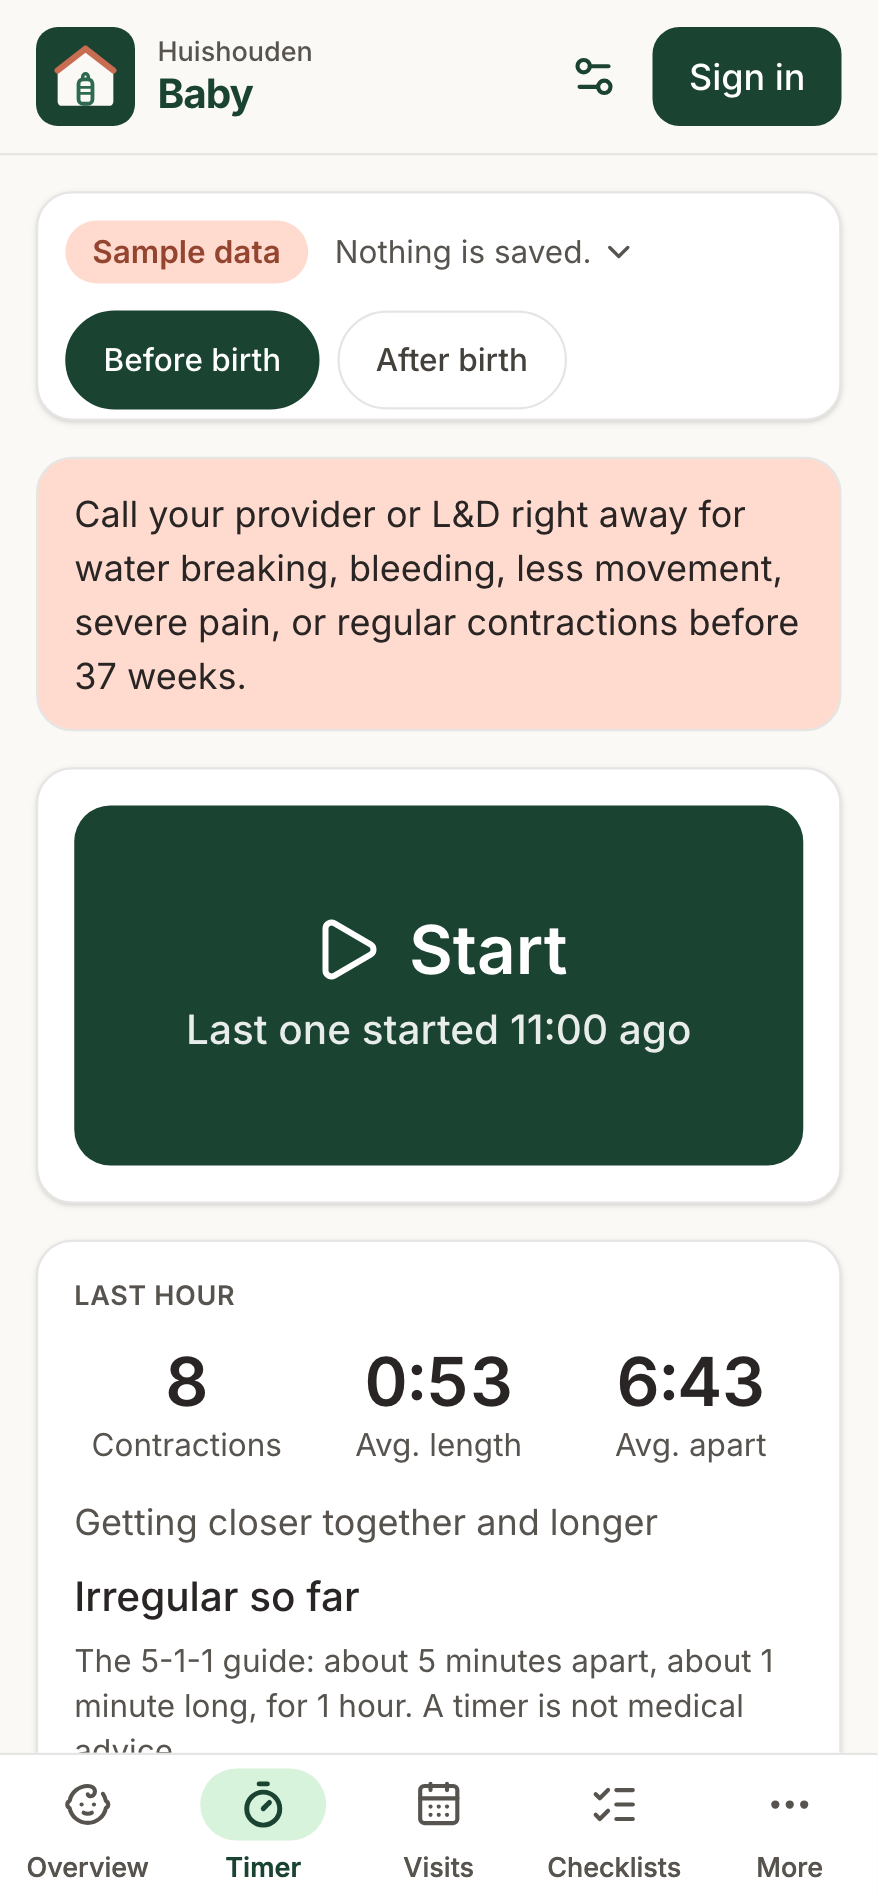
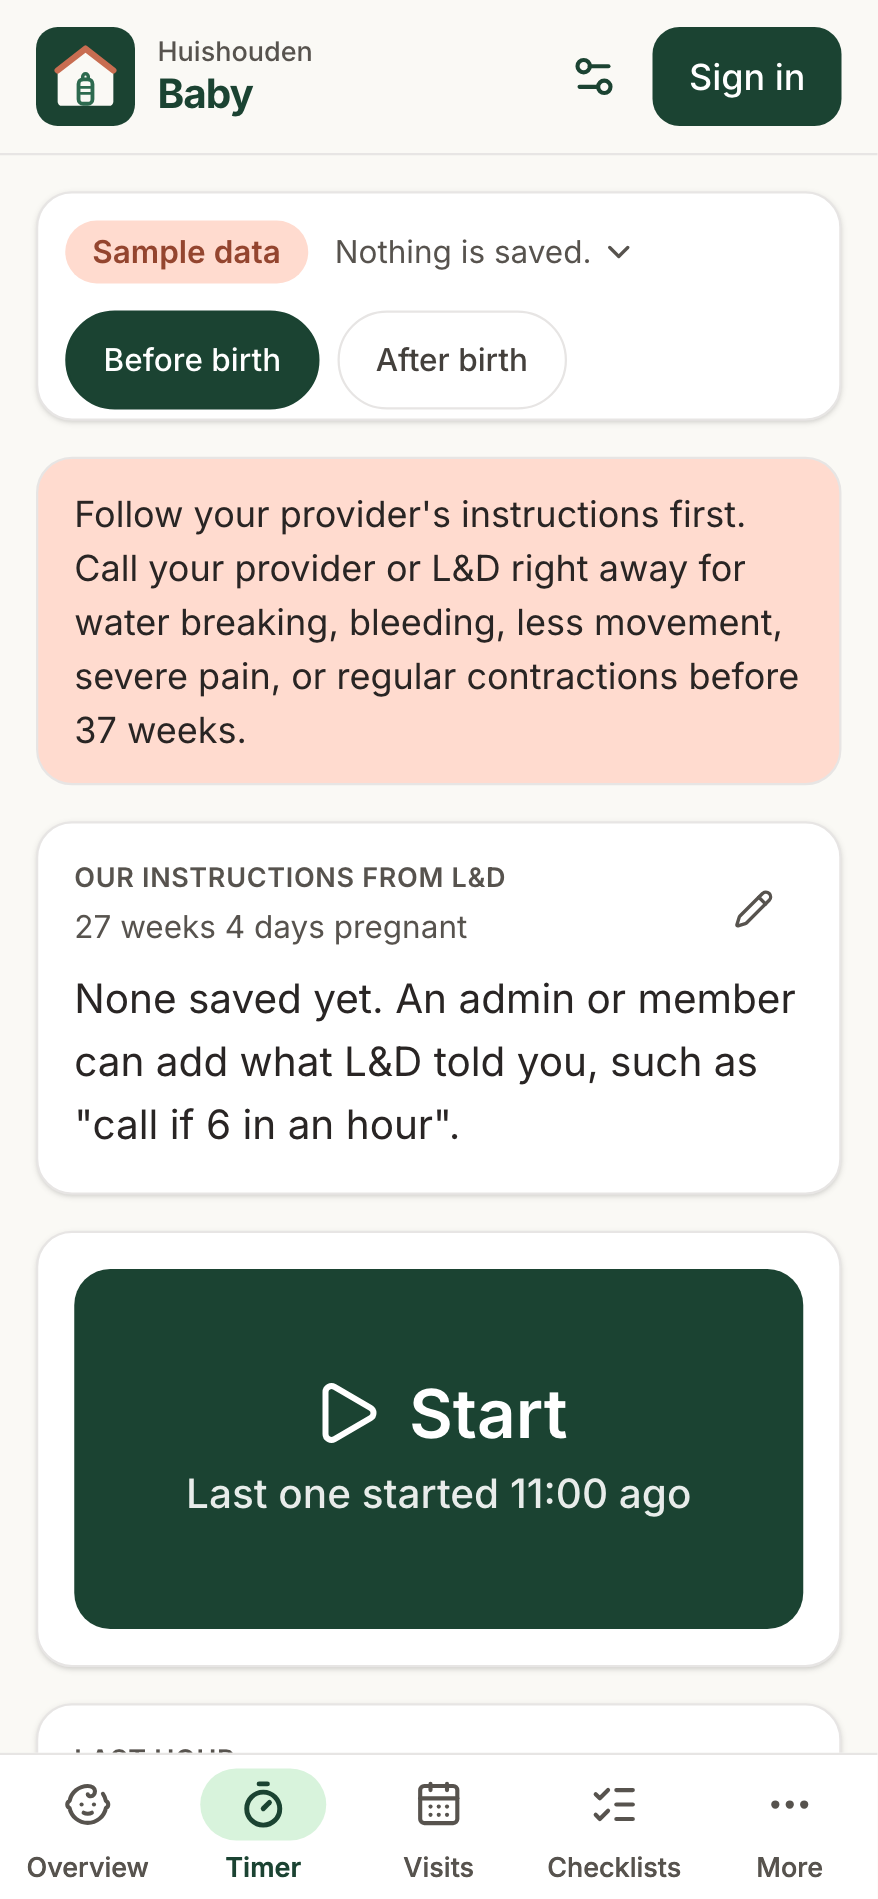
feat(baby): gestational-age aware contraction status, L&D instructions note, L&D call button
Claude-Session: https://claude.ai/code/session_01GcajtSBFvfzGz5t2hDFcRZ

diff --git a/src/screens/Contractions.tsx b/src/screens/Contractions.tsx
@@ -1,15 +1,17 @@
 import { useEffect, useState } from 'react';
-import { Phone, Play, Square, Trash2 } from 'lucide-react';
+import { Pencil, Phone, Play, Square, Trash2 } from 'lucide-react';
 import { telHref } from '@huishouden/pwa-kit/places';
 import { formatDayLong, formatTime } from '@huishouden/pwa-kit/time';
 import { useClock } from '@huishouden/pwa-kit/react/clock';
-import { cardClass, iconButton, overline, secondaryButton } from '@huishouden/pwa-kit/react/ui';
+import { cardClass, iconButton, inputClass, overline, primaryButton, secondaryButton } from '@huishouden/pwa-kit/react/ui';
 import type { BabyStore } from '../data/types';
-import { clock, durationOf, intervalBefore, providerContact, running, sessions, summarize, type Status, type Trend } from '../lib/contractions';
+import { clock, durationOf, gestation, intervalBefore, parseNote, providerContact, running, sessions, summarize, type Status, type Trend } from '../lib/contractions';
 import type { Contraction } from '../lib/model';
 import { can } from '@huishouden/pwa-kit/roles';
 import { RoleNote } from '@huishouden/pwa-kit/react/roles';
 import { mayChange } from '../lib/roles';
+import { countdown } from '../lib/time';
+import { LIMITS } from '../lib/model';
 import { useT } from '../i18n';
 
 const STATUS_KEYS = {
@@ -17,6 +19,9 @@ const STATUS_KEYS = {
   few: 'contractions.status.few',
   irregular: 'contractions.status.irregular',
   building: 'contractions.status.building',
+  call: 'contractions.status.call',
+  preCall: 'contractions.status.preCall',
+  preKeep: 'contractions.status.preKeep',
   match: 'contractions.status.match',
 } as const satisfies Record<Status, string>;
 
@@ -52,7 +57,16 @@ export function Contractions({ store, notify }: Props) {
   }, [currentId, read]);
   const now = Math.max(slow, tick ?? 0);
 
-  const summary = summarize(contractions, now);
+  const { profile } = store.data;
+  const due = profile?.dueDate ? countdown(profile.dueDate, now) : null;
+  const weeks = due ? gestation(due.days) : null;
+  const preterm = weeks != null && weeks.weeks < 37;
+  const note = profile?.contractionNote;
+  const summary = summarize(contractions, now, { preterm, ...parseNote(note) });
+  const callNow = summary.status === 'call' || summary.status === 'preCall' || summary.status === 'match';
+  const [editing, setEditing] = useState(false);
+  const [draft, setDraft] = useState('');
+  const canEditNote = can(store.role, 'change-settings');
   const provider = providerContact(contacts);
   const history = sessions(contractions);
   const last = [...contractions].sort((a, b) => b.start - a.start).find((c) => c.id !== currentId);
@@ -74,11 +88,43 @@ export function Contractions({ store, notify }: Props) {
         {t('contractions.callNote')}
       </p>
 
+      <section className={`${cardClass} p-4`} aria-label={t('contractions.instructions')}>
+        <div className="flex items-start justify-between gap-3">
+          <div className="min-w-0">
+            <p className={overline}>{t('contractions.instructions')}</p>
+            {weeks && <p className="mt-1 text-sm text-muted">{t('contractions.weeks', { weeks: weeks.weeks, days: weeks.days })}</p>}
+          </div>
+          {canEditNote && !editing && (
+            <button type="button" className={iconButton} aria-label={t('contractions.editInstructions')} onClick={() => { setDraft(note ?? ''); setEditing(true); }}>
+              <Pencil size={18} aria-hidden="true" />
+            </button>
+          )}
+        </div>
+        {editing ? (
+          <form
+            className="mt-2 space-y-2"
+            onSubmit={(e) => {
+              e.preventDefault();
+              store.actions.saveContractionNote(draft);
+              setEditing(false);
+            }}
+          >
+            <input className={inputClass} value={draft} maxLength={LIMITS.contractionNote} placeholder={t('contractions.instructionsPlaceholder')} aria-label={t('contractions.instructions')} onChange={(e) => setDraft(e.target.value)} />
+            <div className="flex gap-2">
+              <button type="submit" className={primaryButton}>{t('common.save')}</button>
+              <button type="button" className={secondaryButton} onClick={() => setEditing(false)}>{t('common.cancel')}</button>
+            </div>
+          </form>
+        ) : (
+          <p className="mt-1 text-lg text-ink [overflow-wrap:anywhere]" data-testid="instructions">{note || t('contractions.noInstructions')}</p>
+        )}
+      </section>
+
       <section className={`${cardClass} p-4 sm:p-6`} aria-label={t('contractions.title')}>
         <button
           type="button"
           onClick={toggle}
-          className={`flex min-h-40 w-full flex-col items-center justify-center gap-1 rounded-2xl px-4 py-6 text-3xl font-semibold transition-colors duration-150 ${current ? 'border-2 border-attention-fill bg-attention-tint text-attention' : 'bg-primary text-on-primary hover:bg-primary-hover'}`}
+          className={`flex min-h-40 w-full flex-col items-center justify-center gap-1 rounded-2xl px-4 py-6 text-3xl font-semibold transition-colors duration-150 ${current ? 'border-2 border-attention-fill bg-attention-tint text-ink' : 'bg-primary text-on-primary hover:bg-primary-hover'}`}
         >
           <span className="flex items-center gap-3">
             {current ? <Square size={32} aria-hidden="true" /> : <Play size={32} aria-hidden="true" />}
@@ -107,13 +153,17 @@ export function Contractions({ store, notify }: Props) {
           <Stat label={t('contractions.avgApart')} value={summary.avgInterval == null ? '–' : clock(summary.avgInterval)} />
         </dl>
         <p className="mt-3 text-base text-muted">{t(TREND_KEYS[summary.trend])}</p>
-        <p className="mt-2 text-lg font-medium text-ink" data-testid="status" data-status={summary.status}>
+        <p className={`mt-2 text-lg font-medium text-ink ${callNow ? 'rounded-xl border-2 border-attention-fill bg-attention-tint px-3 py-2' : ''}`} data-testid="status" data-status={summary.status}>
           {t(STATUS_KEYS[summary.status])}
         </p>
-        <p className="mt-1 text-sm text-muted">{t('contractions.guide')}</p>
+        {!preterm && <p className="mt-1 text-sm text-muted">{t('contractions.guide')}</p>}
         {provider?.phone && (
           <a className="mt-3 inline-flex min-h-12 w-full items-center justify-center gap-2 rounded-xl border border-line bg-surface px-4 text-lg font-semibold text-link" href={telHref(provider.phone)}>
-            <Phone size={20} aria-hidden="true" /> {t('contractions.call', { name: provider.name })}
+            <Phone size={20} aria-hidden="true" />
+            <span className="min-w-0 text-left">
+              <span className="block [overflow-wrap:anywhere]">{t('contractions.call', { name: provider.name })}</span>
+              <span className="block text-base font-medium tabular-nums">{provider.phone}</span>
+            </span>
           </a>
         )}
       </section>

diff --git a/src/lib/contractions.ts b/src/lib/contractions.ts
@@ -61,7 +61,43 @@ export type Status =
   | 'irregular'
   /** Close and long, but not yet held for the hour. */
   | 'building'
-  | 'match';
+  | 'match'
+  /** The household's own instructions from L&D are met (the note). */
+  | 'call'
+  /** Before 37 weeks: four or more in the hour. */
+  | 'preCall'
+  /** Before 37 weeks, fewer than that. */
+  | 'preKeep';
+
+/** What changes the status: how far along the pregnancy is, and the household's own threshold. */
+export interface Rules {
+  /** Before 37 completed weeks (needs the due date). 5-1-1 is for term; earlier, any regular pattern means call. */
+  preterm?: boolean;
+  /** From the note: call at this many contractions in an hour. */
+  noteCount?: number;
+  /** From the note: call when they are this many minutes apart or closer. */
+  noteMinutes?: number;
+}
+
+/** Before 37 weeks this many contractions in the hour reads as regular. */
+export const PRETERM_COUNT = 4;
+
+/** Reads "call if 6 in an hour" and "call when 5 minutes apart" out of the household's note. */
+export function parseNote(note: string | undefined): Pick<Rules, 'noteCount' | 'noteMinutes'> {
+  if (!note) return {};
+  const out: Pick<Rules, 'noteCount' | 'noteMinutes'> = {};
+  const count = /(\d{1,2})\s*(?:contractions?\s*|weeën\s*|contracciones\s*)?(?:in|per|\/|en|binnen|por)\s*(?:an?\s*|1\s*|one\s*|een\s*|una\s*|1\s*)?(?:hour|hr|h|uur|hora)\b/i.exec(note);
+  if (count) out.noteCount = Number(count[1]);
+  const apart = /(\d{1,2})\s*(?:min(?:utes?|uten)?|m)\s*(?:apart|or less apart|auseinander|uit elkaar|de separación)|every\s*(\d{1,2})\s*min/i.exec(note);
+  if (apart) out.noteMinutes = Number(apart[1] ?? apart[2]);
+  return out;
+}
+
+/** Completed weeks and days of pregnancy from the due date's remaining days (40 weeks = 280 days). */
+export function gestation(daysToDue: number): { weeks: number; days: number } | null {
+  const d = 280 - daysToDue;
+  return d >= 0 && d <= 300 ? { weeks: Math.floor(d / 7), days: d % 7 } : null;
+}
 
 export interface Summary {
   count: number;
@@ -78,7 +114,7 @@ const mean = (xs: number[]): number | null => (xs.length ? xs.reduce((a, b) => a
 const CHANGE = 0.15;
 
 /** The last hour: count, averages, trend and the 5-1-1 status. */
-export function summarize(list: Contraction[], now: number): Summary {
+export function summarize(list: Contraction[], now: number, rules: Rules = {}): Summary {
   const w = list.filter((c) => c.start >= now - WINDOW && c.start <= now).sort(byStart);
   const durations = w.filter((c) => !isRunning(c)).map((c) => durationOf(c, now));
   const intervals = w.slice(1).map((c, i) => c.start - w[i].start);
@@ -87,6 +123,10 @@ export function summarize(list: Contraction[], now: number): Summary {
   const base = { count: w.length, avgDuration, avgInterval };
   if (w.length === 0) return { ...base, trend: 'unknown', status: 'none' };
   const trend = trendOf(durations, intervals);
+  // The household's own instructions from L&D come before any general guide.
+  const noteMet = (rules.noteCount != null && w.length >= rules.noteCount) || (rules.noteMinutes != null && w.length >= 3 && avgInterval != null && avgInterval <= rules.noteMinutes * MIN);
+  if (noteMet) return { ...base, trend, status: 'call' };
+  if (rules.preterm) return { ...base, trend, status: w.length >= PRETERM_COUNT ? 'preCall' : 'preKeep' };
   if (w.length < 3 || avgInterval == null || avgDuration == null) return { ...base, trend, status: 'few' };
   const closeAndLong = avgInterval <= MAX_INTERVAL && avgDuration >= MIN_DURATION;
   if (!closeAndLong) return { ...base, trend, status: 'irregular' };
@@ -120,9 +160,13 @@ export function clock(ms: number): string {
   return `${Math.floor(s / 60)}:${String(s % 60).padStart(2, '0')}`;
 }
 
-/** The household contact to call first: an OB or midwife, else a hospital, that has a phone number. */
+const LABOR = /\b(labou?r\s*(&|and)\s*delivery|l\s*&\s*d|l&d|ob\s*triage|triage|kraamafdeling|bevalling|sala de partos|parto)\b/iu;
+
+/** The household contact to call first: labor and delivery or OB triage, else an OB or midwife, else a hospital, that has a phone number. */
 export function providerContact(contacts: Contact[]): Contact | undefined {
   const withPhone = contacts.filter((c) => c.phone?.trim());
+  const labor = withPhone.find((c) => LABOR.test(`${c.role ?? ''} ${c.name}`));
+  if (labor) return labor;
   for (const role of ['midwife', 'hospital'] as const) {
     const hit = withPhone.find((c) => knownRole(c.role) === role);
     if (hit) return hit;

diff --git a/src/lib/contractions.test.ts b/src/lib/contractions.test.ts
@@ -1,6 +1,6 @@
 import { describe, expect, test } from 'bun:test';
 import type { Contraction } from './model';
-import { clock, providerContact, running, sessions, summarize } from './contractions';
+import { clock, gestation, parseNote, providerContact, running, sessions, summarize } from './contractions';
 
 const MIN = 60_000;
 const NOW = 1_900_000_000_000;
@@ -98,4 +98,44 @@ describe('providerContact', () => {
     expect(providerContact([contact('Hosp', 'Hospital', '555'), contact('Mid', 'OB / midwife')])?.name).toBe('Hosp');
     expect(providerContact([contact('Ped', 'Pediatrician', '555')])).toBeUndefined();
   });
+});
+
+describe('before 37 weeks and the household’s note', () => {
+  const pre = { preterm: true };
+  test('four in the hour: call; fewer: keep timing; none: nothing', () => {
+    expect(summarize([c(40, 50), c(30, 50), c(20, 50), c(10, 50)], NOW, pre).status).toBe('preCall');
+    expect(summarize([c(30, 50), c(10, 50)], NOW, pre).status).toBe('preKeep');
+    expect(summarize([], NOW, pre).status).toBe('none');
+  });
+  test('never leads with 5-1-1 before 37 weeks', () => {
+    expect(summarize(steady(5, 58, 62), NOW, pre).status).toBe('preCall');
+  });
+  test('the note’s count wins, at term and before', () => {
+    const six = [50, 40, 30, 20, 10, 2].map((m) => c(m, 40));
+    expect(summarize(six, NOW, { noteCount: 6 }).status).toBe('call');
+    expect(summarize(six.slice(1), NOW, { noteCount: 6, preterm: true }).status).toBe('preCall');
+  });
+  test('the note’s spacing', () => {
+    expect(summarize([c(20, 40), c(14, 40), c(8, 40)], NOW, { noteMinutes: 7 }).status).toBe('call');
+    expect(summarize([c(30, 40), c(15, 40), c(0.5, 40)], NOW, { noteMinutes: 7 }).status).not.toBe('call');
+  });
+});
+
+test('parseNote', () => {
+  expect(parseNote('Call if 6 in an hour')).toEqual({ noteCount: 6 });
+  expect(parseNote('call L&D with 4 contractions per hour')).toEqual({ noteCount: 4 });
+  expect(parseNote('Call when 5 minutes apart')).toEqual({ noteMinutes: 5 });
+  expect(parseNote('every 7 min and 5 in an hour')).toEqual({ noteCount: 5, noteMinutes: 7 });
+  expect(parseNote('call for anything')).toEqual({});
+  expect(parseNote(undefined)).toEqual({});
+});
+
+test('gestation: 35 weeks 1 day is 118 days to the due date', () => {
+  expect(gestation(280 - (35 * 7 + 1))).toEqual({ weeks: 35, days: 1 });
+  expect(gestation(-30)).toBeNull();
+});
+
+test('providerContact prefers labor and delivery over the OB', () => {
+  const ct = (name: string, role: string) => ({ id: name, name, role, phone: '555', apps: ['baby'], createdAt: 1, by: 'a@example.com' });
+  expect(providerContact([ct('Mid', 'OB / midwife'), ct('Example OB — Labor & Delivery', 'Labor & delivery')])?.name).toContain('Labor');
 });

diff --git a/src/lib/model.ts b/src/lib/model.ts
@@ -11,6 +11,8 @@ export interface BabyProfile {
   name?: string;
   dueDate?: string;
   birthDate?: string;
+  /** The provider's instructions for the contraction timer ("call if 6 in an hour"). */
+  contractionNote?: string;
   updatedAt: number;
   updatedBy: string;
 }
@@ -83,7 +85,7 @@ export interface Contraction extends ContractionData {
   id: string;
 }
 
-export const LIMITS = { name: 60, note: 500, itemText: 200, title: 120, location: 200, notes: 500 } as const;
+export const LIMITS = { name: 60, note: 500, itemText: 200, title: 120, location: 200, notes: 500, contractionNote: 300 } as const;
 
 /** The editable part of an event; `by`/`createdAt` stay with the original logger. */
 export type EventFields = Pick<BabyEventData, 'kind' | 'at' | 'endAt' | 'side' | 'method' | 'amountMl' | 'diaper' | 'note'>;

diff --git a/src/data/actions.ts b/src/data/actions.ts
@@ -35,7 +35,13 @@ export function createActions(backend: Backend, read: () => BabyData, me: string
   return {
     saveProfile: (p) => {
       track('save baby profile');
-      backend.saveProfile(profileDoc(p, me, clock()));
+      // Editing the baby's details keeps the instructions note.
+      backend.saveProfile(profileDoc({ ...p, contractionNote: p.contractionNote ?? read().profile?.contractionNote }, me, clock()));
+    },
+    saveContractionNote: (note) => {
+      track('save contraction note');
+      const { name, dueDate, birthDate } = read().profile ?? {};
+      backend.saveProfile(profileDoc({ name, dueDate, birthDate, contractionNote: note }, me, clock()));
     },
     logEvent: (f) => {
       track('log entry', { kind: f.kind });

diff --git a/src/data/types.ts b/src/data/types.ts
@@ -9,6 +9,7 @@ export interface ProfileInput {
   name?: string;
   dueDate?: string;
   birthDate?: string;
+  contractionNote?: string;
 }
 
 export interface AppointmentInput {
@@ -27,6 +28,8 @@ export interface AppointmentInput {
 /** Writes return immediately (Firestore queues them offline); failures arrive through `onError`. */
 export interface BabyActions {
   saveProfile(p: ProfileInput): void;
+  /** The provider's instructions for the contraction timer; admins and members. */
+  saveContractionNote(note: string): void;
   logEvent(fields: Omit<EventFields, 'at'> & { at?: number }): BabyEvent;
   updateEvent(event: BabyEvent, fields: EventFields): void;
   deleteEvent(id: string): void;

diff --git a/src/data/build.ts b/src/data/build.ts
@@ -15,6 +15,8 @@ export function profileDoc(p: ProfileInput, by: string, now: number): BabyProfil
   if (name) out.name = name;
   if (p.dueDate && /^\d{4}-\d{2}-\d{2}$/.test(p.dueDate)) out.dueDate = p.dueDate;
   if (p.birthDate && /^\d{4}-\d{2}-\d{2}$/.test(p.birthDate)) out.birthDate = p.birthDate;
+  const note = trimmed(p.contractionNote, LIMITS.contractionNote);
+  if (note) out.contractionNote = note;
   return out;
 }
 
